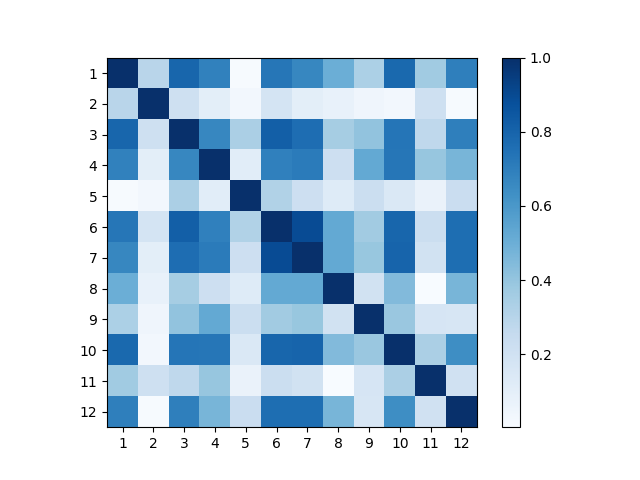
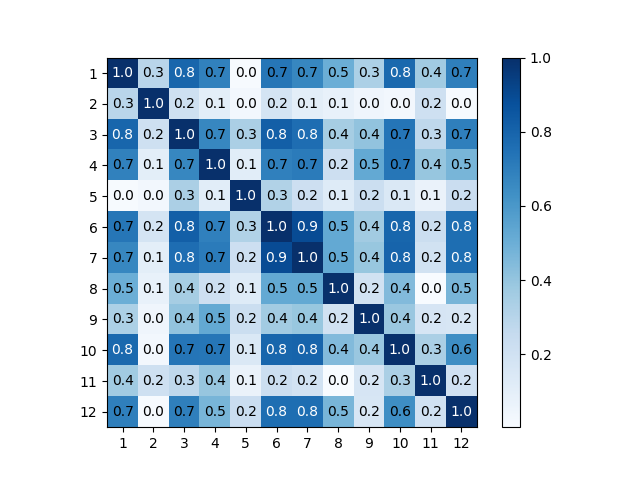
new figures

diff --git a/general/plotting.py b/general/plotting.py
@@ -17,7 +17,7 @@ def hist(d, l, labels):
             plt.hist(x.reshape(x.size, ), alpha=0.4, label=labels[c], bins=70, density=True, linewidth=1.0)
         plt.xlabel(f'Dimension {i + 1}')
         plt.legend()
-        plt.savefig("figures/histograms/histograms_" + str(i))
+        plt.savefig("figures/lda_histograms_" + str(i))
         plt.close()
 
 
@@ -29,13 +29,14 @@ def plot_pca(d):
     plt.plot(range(1, s.size + 1), evr, marker='o')
     plt.xlabel('Dimensions')
     plt.ylabel('Fraction of explained variance')
+    plt.grid(True)
     plt.savefig("figures/pca_var.png")
     plt.close()
 
 
 def plot_heatmaps(d, l, labels):
     classes = [0, 1, None]
-    colors = ["Blues", "hot", "Greys"]
+    colors = ["Blues", "Reds", "Greys"]
     for c in range(3):
         if classes[c] is None:
             data = d
@@ -51,6 +52,11 @@ def plot_heatmaps(d, l, labels):
         plt.xticks(np.arange(0, data.shape[0]), np.arange(1, data.shape[0] + 1))
         plt.yticks(np.arange(0, data.shape[0]), np.arange(1, data.shape[0] + 1))
         plt.imshow(heatmap, cmap=colors[c])
+        rows, cols = heatmap.shape
+        for i in range(rows):
+            for j in range(cols):
+                plt.text(j, i, f'{heatmap[i, j]:.1f}', ha='center', va='center',
+                         color='white' if round(heatmap[i, j], 1) >= 0.8 else 'black')
         plt.colorbar()
         plt.savefig("figures/heatmaps/heatmaps_" + labels[c])
         plt.close()
